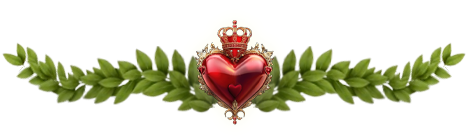
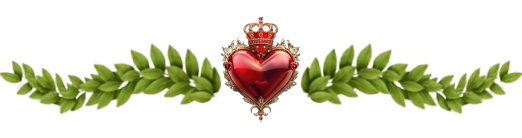
ok

Changed region(s): [[0.0, 0.1159, 1.0, 0.8986]]

diff --git a/love.html b/love.html
@@ -373,6 +373,36 @@ animation: glowPulse 4s ease-in-out infinite;              /* 👈 VIỀN SÁNG 
   white-space: nowrap;
 }
 
+/* =========================================
+   BOTGET Ở CHÂN KHUNG KHI SERDYKEE MỞ
+   ========================================= */
+.serdykee::before {
+  content: "";
+  position: absolute;
+  bottom: -42px;              /* 👈 thò ra ngoài chân khung */
+  left: 50%;
+  transform: translateX(-50%) scale(0.6);
+  width: 150px;               /* chỉnh theo size botget.png */
+  height: 120px;
+  background: url("./image/botget.png") no-repeat center / contain;
+  opacity: 0;
+  z-index: 30;
+  pointer-events: none;
+  transition: 
+    opacity 1.8s ease,
+    transform 2.2s ease;
+}
+
+/* Khi mở thư */
+.serdykee.open::before {
+  opacity: 1;
+  transform: translateX(-50%) scale(1);
+  
+/* Ẩn botget khi chọn */
+.serdykee.hide-botget::before {
+  opacity: 0;
+  transform: translateX(-50%) scale(.7);
+}
 
 
 </style>
@@ -582,6 +612,8 @@ function vibrateDeny() {
 
 	// ============ NÚT ĐỒNG Ý ============
 	document.getElementById('btnYes').addEventListener('click', () => {
+		  // 🔴 Ẩn botget TRƯỚC
+  document.querySelector('.serdykee').classList.add('hide-botget');
 	// 1. Dừng nhạc nền hoàn toàn
     if(bgMusic && !bgMusic.paused){bgMusic.pause(); bgMusic.currentTime = 0;}
     // 3. Phát nhạc hiệu ứng YES
@@ -598,6 +630,8 @@ function vibrateDeny() {
 
 	// ========== NÚT KHÔNG ĐỒNG Ý ==========
 	document.getElementById('btnNo').addEventListener('click', () => {
+		  // 🔴 Ẩn botget TRƯỚC
+  document.querySelector('.serdykee').classList.add('hide-botget');
     // 1. Dừng nhạc nền hoàn toàn
 	if(bgMusic && !bgMusic.paused){bgMusic.pause(); bgMusic.currentTime = 0;}
     // 2. Phát nhạc hiệu ứng NO
